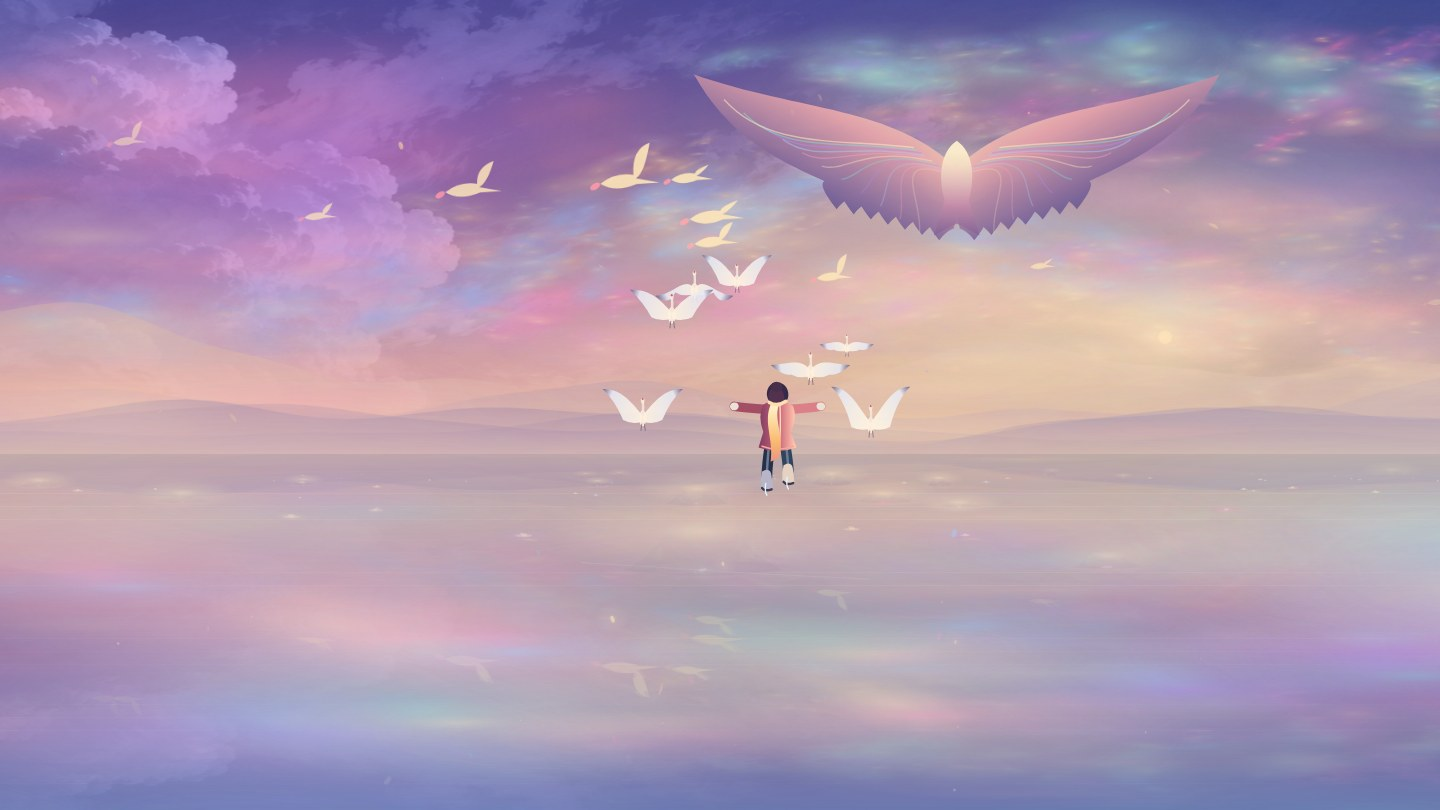
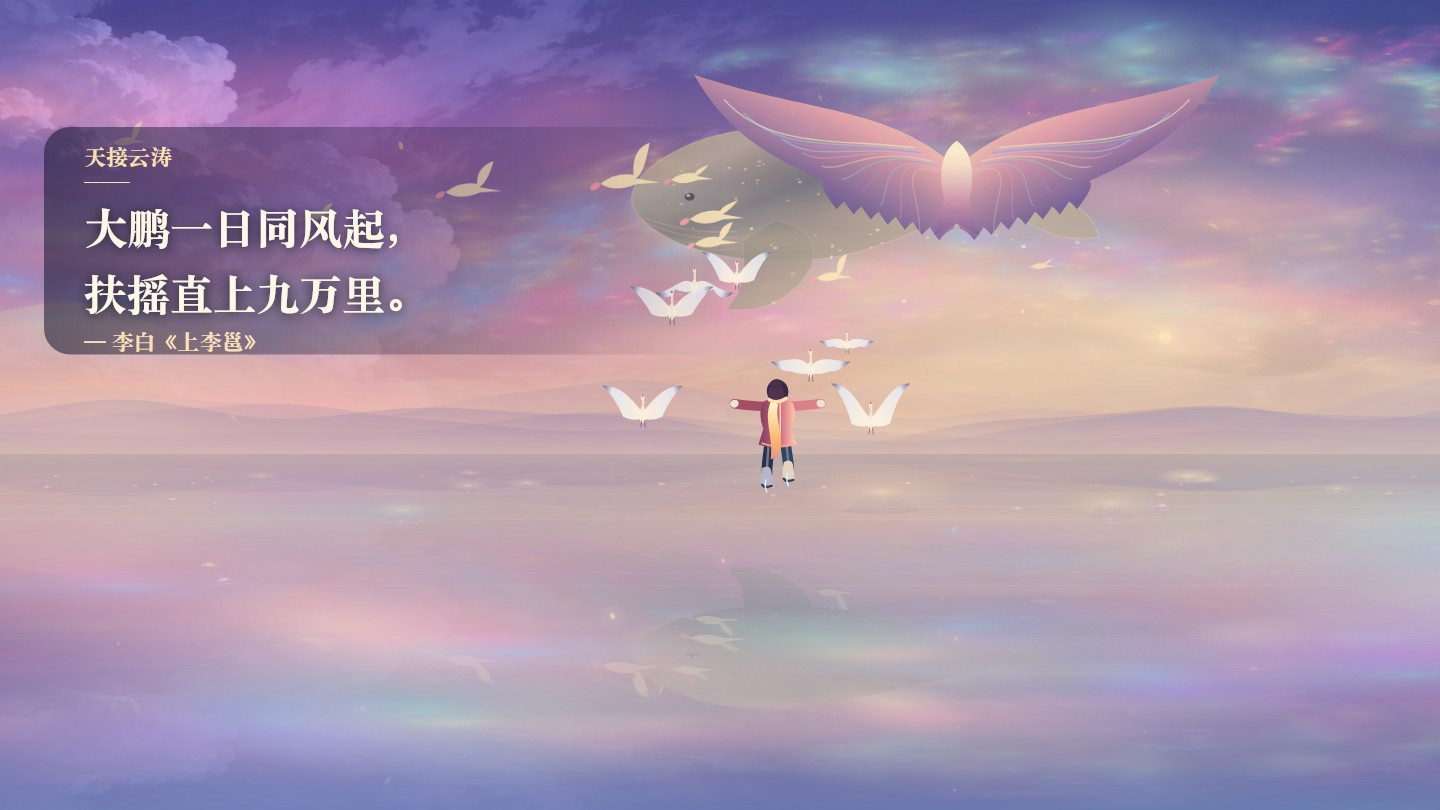
Illustrate the voyage with verses and refine moonlit scenes

diff --git a/js/chapters.js b/js/chapters.js
@@ -158,18 +158,20 @@ const chapters = [
       [25,"清风徐来，\n水波不兴。",redCliffSource],
       [165,"白露横江，\n水光接天。",redCliffSource],
       [315,"惟江上之清风，\n与山间之明月。",redCliffSource],
-      [470,"耳得之而为声，\n目遇之而成色。",redCliffSource],
-      [630,"取之无禁，\n用之不竭。",redCliffSource],
-      [800,"是造物者之无尽藏也，\n而吾与子之所共适。",redCliffSource]
+      [437,"船桨一停，\n水上的月光就慢慢合拢了。",null,null,"oar-rest"],
+      [565,"取之无禁，\n用之不竭。",redCliffSource,null,"4"],
+      [800,"是造物者之无尽藏也，\n而吾与子之所共适。",redCliffSource,null,"5"]
     ]},
   {at:10280,name:"春江花月夜",icon:"☾",weather:"春江 · 银花",index:3,seed:1913,painting:11,river:true,moonRiver:true,
     sky:[24,43,89],mid:[74,119,154],line:[170,213,215],cloud:[209,229,234],shadow:[93,80,146],hills:[54,89,113],water:[27,62,103],light:[228,243,251],
     lines:[
-      [25,"春江潮水连海平，\n海上明月共潮生。","张若虚《春江花月夜》"],
-      [200,"江流宛转绕芳甸，\n月照花林皆似霰。","张若虚《春江花月夜》"],
-      [370,"你划近了。银白的是花，\n风一过，细枝还在轻轻摇。"],
-      [540,"江天一色无纤尘，\n皎皎空中孤月轮。","张若虚《春江花月夜》"],
-      [720,"不知乘月几人归，\n落月摇情满江树。","张若虚《春江花月夜》"]
+      [83,"绕过最后一道山影，\n江面忽然开阔了。",null,null,"river-opens"],
+      [195,"春江潮水连海平，\n海上明月共潮生。","张若虚《春江花月夜》"],
+      [318,"想让小舟再漂一会儿吗？",null,null,"drift-a-little"],
+      [440,"江流宛转绕芳甸，\n月照花林皆似霰。","张若虚《春江花月夜》"],
+      [562,"你划近了。银白的是花，\n风一过，细枝还在轻轻摇。"],
+      [680,"江天一色无纤尘，\n皎皎空中孤月轮。","张若虚《春江花月夜》"],
+      [820,"不知乘月几人归，\n落月摇情满江树。","张若虚《春江花月夜》"]
     ]},
   {at:11180,name:"李凭箜篌引",icon:"♫",weather:"花洲 · 寻弦",index:1,seed:2053,painting:12,harp:true,
     sky:[29,22,72],mid:[85,64,140],line:[178,121,163],cloud:[202,157,215],shadow:[53,59,125],hills:[64,66,113],water:[29,44,82],light:[248,216,178],
@@ -194,7 +196,9 @@ const chapters = [
     lines:[
       [25,"千山鸟飞绝，\n万径人踪灭。","柳宗元《江雪》"],
       [215,"孤舟蓑笠翁，\n独钓寒江雪。","柳宗元《江雪》"],
-      [480,"雪落得很轻。\n你听见船桨拨开水的声音。"]
+      [430,"雾凇沆砀，\n天与云与山与水，上下一白。","张岱《湖心亭看雪》",null,"snow-white"],
+      [610,"湖上影子，惟长堤一痕、\n湖心亭一点、与余舟一芥、\n舟中人两三粒而已。","张岱《湖心亭看雪》",null,"lake-shadows"],
+      [805,"雪落得很轻。\n你听见船桨拨开水的声音。"]
     ]}
 ];
 const original = {...palettes[0],...chapters[0],word:"",whale:false};

diff --git a/js/scenery.js b/js/scenery.js
@@ -165,6 +165,12 @@ function drawRedCliff(opacity,world){
 }
 const moonFlowers=["#c5d8eb","#e5e9f7","#fff0d8","#d4c8ee"];
 function drawMoonRiver(opacity,world){
+  for(let i=0;i<18;i++){
+    const depth=(i+.5)/18, ripple=Math.sin((reduced?0:t)*.61+i*.77);
+    const x=W*(.81+(ripple*.016+Math.sin(position*.0026)*-.093)*depth);
+    pigmentGlow(ctx,x,horizon+(H-horizon)*depth,W*(.018+depth*.067),.11,0,
+      [216,238,255],opacity*(.32-depth*.11));
+  }
   for(const {object:{kind,seed},depth:z,point:p} of world){
     if(kind>4)continue;
     const bank=smooth((Math.abs(p.x/W-.54)-.10)/.085);
@@ -229,6 +235,20 @@ function drawHarpBanks(opacity,world){
   }
 }
 function drawInkRiver(opacity,world){
+  const snowDistance=routeDistance-chapters[inkChapter].at;
+  if(routeMode&&chapterIndex===inkChapter){
+    const pavilion=smooth((snowDistance-470)/140)*(1-smooth((snowDistance-745)/120))*opacity;
+    const x=W*.65-Math.sin(position*.003)*W*.035,y=horizon+(H-horizon)*.105;
+    const size=Math.min(W,H)*.023;
+    ellipse(ctx,x-size*.58,y+size*.13,size*4.2,size*.095,rgba([99,99,99],pavilion*.40),-.015);
+    ctx.fillStyle=rgba([53,53,53],pavilion*.8);
+    ctx.beginPath();ctx.moveTo(x-size,y-size*.42);ctx.quadraticCurveTo(x-size*.22,y-size*.53,x,y-size*.94);
+    ctx.quadraticCurveTo(x+size*.32,y-size*.56,x+size,y-size*.42);
+    ctx.quadraticCurveTo(x,y-size*.34,x-size,y-size*.42);ctx.fill();
+    ctx.fillRect(x-size*.49,y-size*.39,size*.085,size*.48);
+    ctx.fillRect(x+size*.40,y-size*.39,size*.085,size*.48);
+    pigmentGlow(ctx,x,y+size*.45,size,.22,0,[95,95,95],pavilion*.25);
+  }
   for(const {object:{kind,seed},depth:z,point:p} of world){
     if(kind!==1||Math.abs(p.x/W-.54)<.19)continue;
     const fade=opacity*smooth((z-63)/96)*smooth((1240-z)/610);

diff --git a/js/landscape.js b/js/landscape.js
@@ -687,13 +687,15 @@ function skyDetail(c,w,h,p){
   }
   if((cold&&!p.jade)||p.peachNight){
     const mx=w*.81,my=h*.24,r=h*.077;
-    bloom(c,mx,my,r*2.9,p.light,.27);
+    if(p.moonRiver)bloom(c,mx,my,r*5,[196,225,255],.38);
+    bloom(c,mx,my,r*2.9,p.light,p.moonRiver?.65:.27);
     const moon=c.createLinearGradient(mx-r,my-r,mx+r,my+r);
-    moon.addColorStop(0,rgba(p.light,.85));moon.addColorStop(1,rgba(p.mid,.44));
+    moon.addColorStop(0,p.moonRiver?"#fffff6":rgba(p.light,.85));
+    moon.addColorStop(1,p.moonRiver?"#cce7ff":rgba(p.mid,.44));
     ellipse(c,mx,my,r,r,moon);
     for(let i=0;i<10;i++){
       const xx=(hash(i+371)-.5)*r*1.18,yy=(hash(i+432)-.5)*r*1.18;
-      ellipse(c,mx+xx,my+yy,r*(.06+hash(i+139)*.13),r*.073,rgba(p.mid,.20));
+      ellipse(c,mx+xx,my+yy,r*(.06+hash(i+139)*.13),r*.073,rgba(p.mid,p.moonRiver?.08:.20));
     }
   }
 }

diff --git a/js/storage.js b/js/storage.js
@@ -55,7 +55,7 @@ function loadJournal() {
     const peachFeastKeys=new Set(chapters[groveChapter].lines.filter(line=>line[2]===peachFeastSource)
       .map(line=>chapters[groveChapter].name+"-"+line[4]));
     for (const {key, entry} of verses.result.sort((a,b)=>a.readAt-b.readAt)){
-      if(key==="不系之舟-6"||(entry.source===peachFeastSource&&!peachFeastKeys.has(key)))continue;
+      if(key==="不系之舟-6"||key==="赤壁赋-3"||(entry.source===peachFeastSource&&!peachFeastKeys.has(key)))continue;
       journal.set(key, entry);
     }
     for (const [key, entry] of current) journal.set(key, entry);

diff --git a/js/route.js b/js/route.js
@@ -33,6 +33,7 @@ function storyLine(chapter, lineIndex) {
   const characters=Array.from(text.replace(/\s/g,"")).length;
   storyUntil=storyTime+clamp(7+characters*.18,8,15);
   nextStoryAt=Math.max(storyUntil+2.8,gesture==="flight"?storyTime+flight.duration:0);
+  if(chapter.redCliff&&lineIndex===chapter.lines.length-1)nextStoryAt+=5;
 }
 function travelStory(dt, sideStep=0) {
   storyTime+=dt;

diff --git a/README.md b/README.md
@@ -4,9 +4,11 @@
 
 这段有诗词相伴的航程约二十一分钟，之后还可以继续漫游。点「踏上冰面」，人物会缓缓向地平线滑去。你可以自己转向、加速，也可以随时停下来，看一会儿云。
 
-**[打开在线版](https://aubreykuang.github.io/Dreamer/)** · 离线游玩时，下载本仓库的 `index.html`，用浏览器打开即可。
+**[打开在线版](https://aubreykuang.github.io/Dreamer/)** · 离线游玩时，下载整个项目，用浏览器打开 `index.html`。
 
 ![海棠渡的粉金晨光和冰上倒影](reverie-begonia.jpg)
+
+下方配图取自游戏实景，每张配有对应的诗文和出处。
 
 ## 十五段航程
 
@@ -23,10 +25,10 @@
 | 归园田居 | 南山脚下，牧童骑牛沿田埂走过，有人弯腰种田，几间茅草屋升起炊烟。 | 种豆南山下，草盛豆苗稀。采菊东篱下，悠然见南山。 |
 | 不系之舟 | 月夜乘舟，循黄州、惠州、儋州的意象远行，偶尔与另一盏船灯擦肩。 | 小舟从此逝，江海寄余生。 |
 | 赤壁赋 | 小舟驶过赤褐色的崖岸，明月在青碧江面上铺开碎银。 | 取之无禁，用之不竭。 |
-| 春江花月夜 | 靛蓝江面映着银白花岸，青绿与淡紫碎光随舟散开。 | 江流宛转绕芳甸，月照花林皆似霰。 |
+| 春江花月夜 | 一轮亮月映在靛蓝江面，银白花枝在船边轻摇。 | 江流宛转绕芳甸，月照花林皆似霰。 |
 | 李凭箜篌引 | 朱粉芙蓉和翡翠色花洲在暮紫中交替亮起，拨弦声从两岸传来。 | 昆山玉碎凤凰叫，芙蓉泣露香兰笑。 |
 | 镜湖飞渡 | 远山在月雾中层层退开，月影伴你滑过湖面，再飞入霞紫云海。 | 湖月照我影，送我至剡溪。 |
-| 寒江独钓 | 墨色山峦退入留白，雪中一叶孤舟，水面只剩淡淡的倒影。 | 孤舟蓑笠翁，独钓寒江雪。 |
+| 寒江独钓 | 墨色山峦退入留白，雪中一叶孤舟，远处的湖心亭淡得像一个墨点。 | 孤舟蓑笠翁，独钓寒江雪。 |
 
 「不系之舟」里，两盏船灯擦肩过后，会读到这句旁白。
 
@@ -57,7 +59,11 @@
 | --- | --- | --- |
 | ![月下的银白花岸](reverie-moon-river.jpg) | ![拨弦声照亮的花洲](reverie-harp.jpg) | ![飞出镜湖，进入云海](reverie-mirror-lake.jpg) |
 
-![寒江独钓，雪中的墨山与孤舟](reverie-ink-river.jpg)
+![寒江独钓，雪中的墨山、远亭与孤舟](reverie-ink-river.jpg)
+
+「寒江独钓」在柳宗元《江雪》之后接入张岱《湖心亭看雪》的两句。念到「湖心亭一点」，远亭从白雾里渐渐浮出来。
+
+驶出赤壁时，字幕会留出一段空白。等江面开阔了，春江的旁白才慢慢响起，中间还会问一句「想让小舟再漂一会儿吗？」
 
 「桃源深处」在花雨过后转入春夜，李白《春夜宴从弟桃花园序》精选的五段依次浮现。读到「开琼筵以坐花，飞羽觞而醉月」，月下再落一阵花雨。《诗经》的《蒹葭》《桃夭》《采薇》分别出现在海雾深处、桃源深处和归园田居。
 
@@ -79,7 +85,7 @@
 
 ## 冰面上的小问候
 
-93 段旁白随滑行展开，古诗词、短叙事和小问题穿插出现。每段停留约 8–15 秒，留一会儿空白才翻到下一句。靠近冰面光点时，还可能遇到 24 句轮流出现的短问候，每句约停留 6 秒。
+97 段旁白随滑行展开，古诗词、短叙事和小问题穿插出现。每段停留约 8–15 秒，留一会儿空白才翻到下一句。靠近冰面光点时，还可能遇到 24 句轮流出现的短问候，每句约停留 6 秒。
 
 - 「今天，有哪一刻让你松了口气？」
 - 「有些烦恼像风，拂过就好，不必把它留在心里。」
